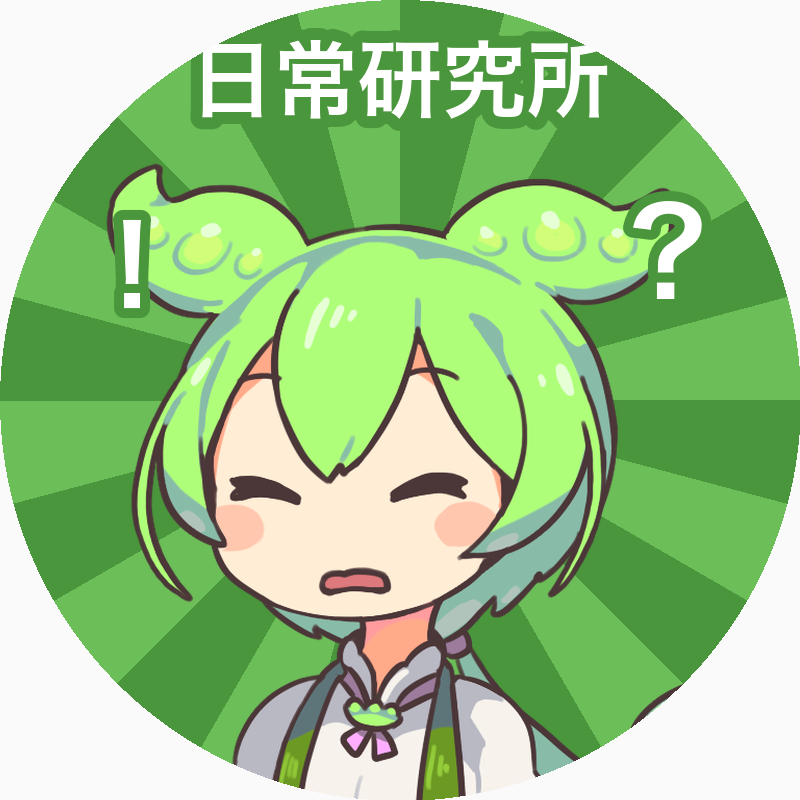
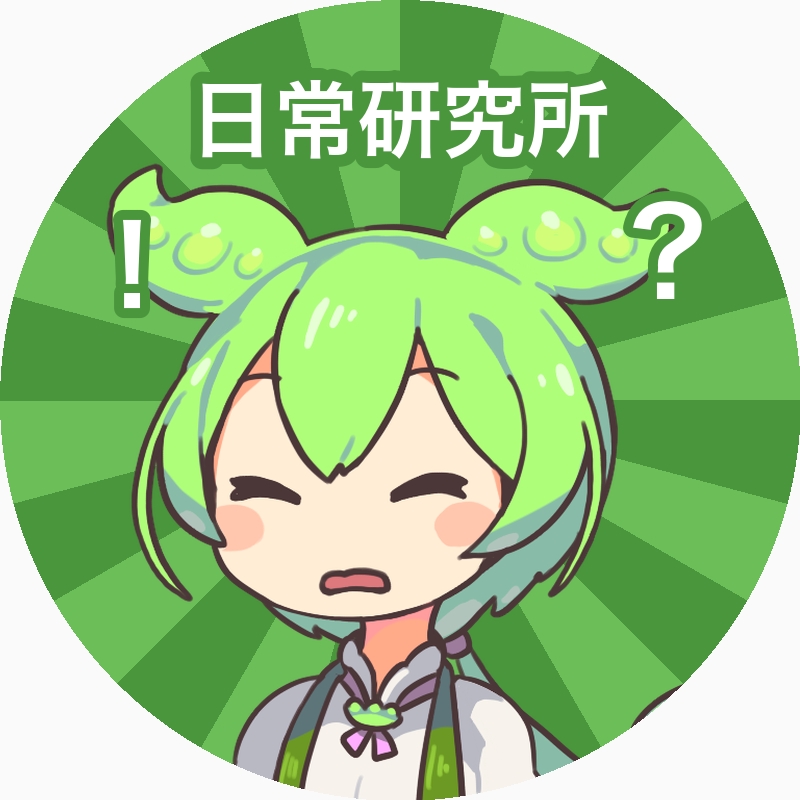
アイコン修正: チャンネル名を円形マスク内に収める（y80→120）

Changed region(s): [[0.2188, 0.0312, 0.7812, 0.2188]]

diff --git a/scripts/gen_channel_icon.py b/scripts/gen_channel_icon.py
@@ -59,7 +59,8 @@ def make_icon() -> Image.Image:
     img.paste(sp, (px, 150), sp)
     d = ImageDraw.Draw(img)
     # チャンネル名と！？
-    ctext(d, S / 2, 80, "日常研究所", font(84), (255, 255, 255), stroke=ZUNDA_DK, sw=12)
+    # 円形マスクの上端で見切れないよう、名前は y120 に置く
+    ctext(d, S / 2, 120, "日常研究所", font(84), (255, 255, 255), stroke=ZUNDA_DK, sw=12)
     ctext(d, 668, 250, "？", font(120), (255, 255, 255), stroke=ZUNDA_DK, sw=10)
     ctext(d, 132, 264, "！", font(110), (255, 255, 255), stroke=ZUNDA_DK, sw=10)
     return img
